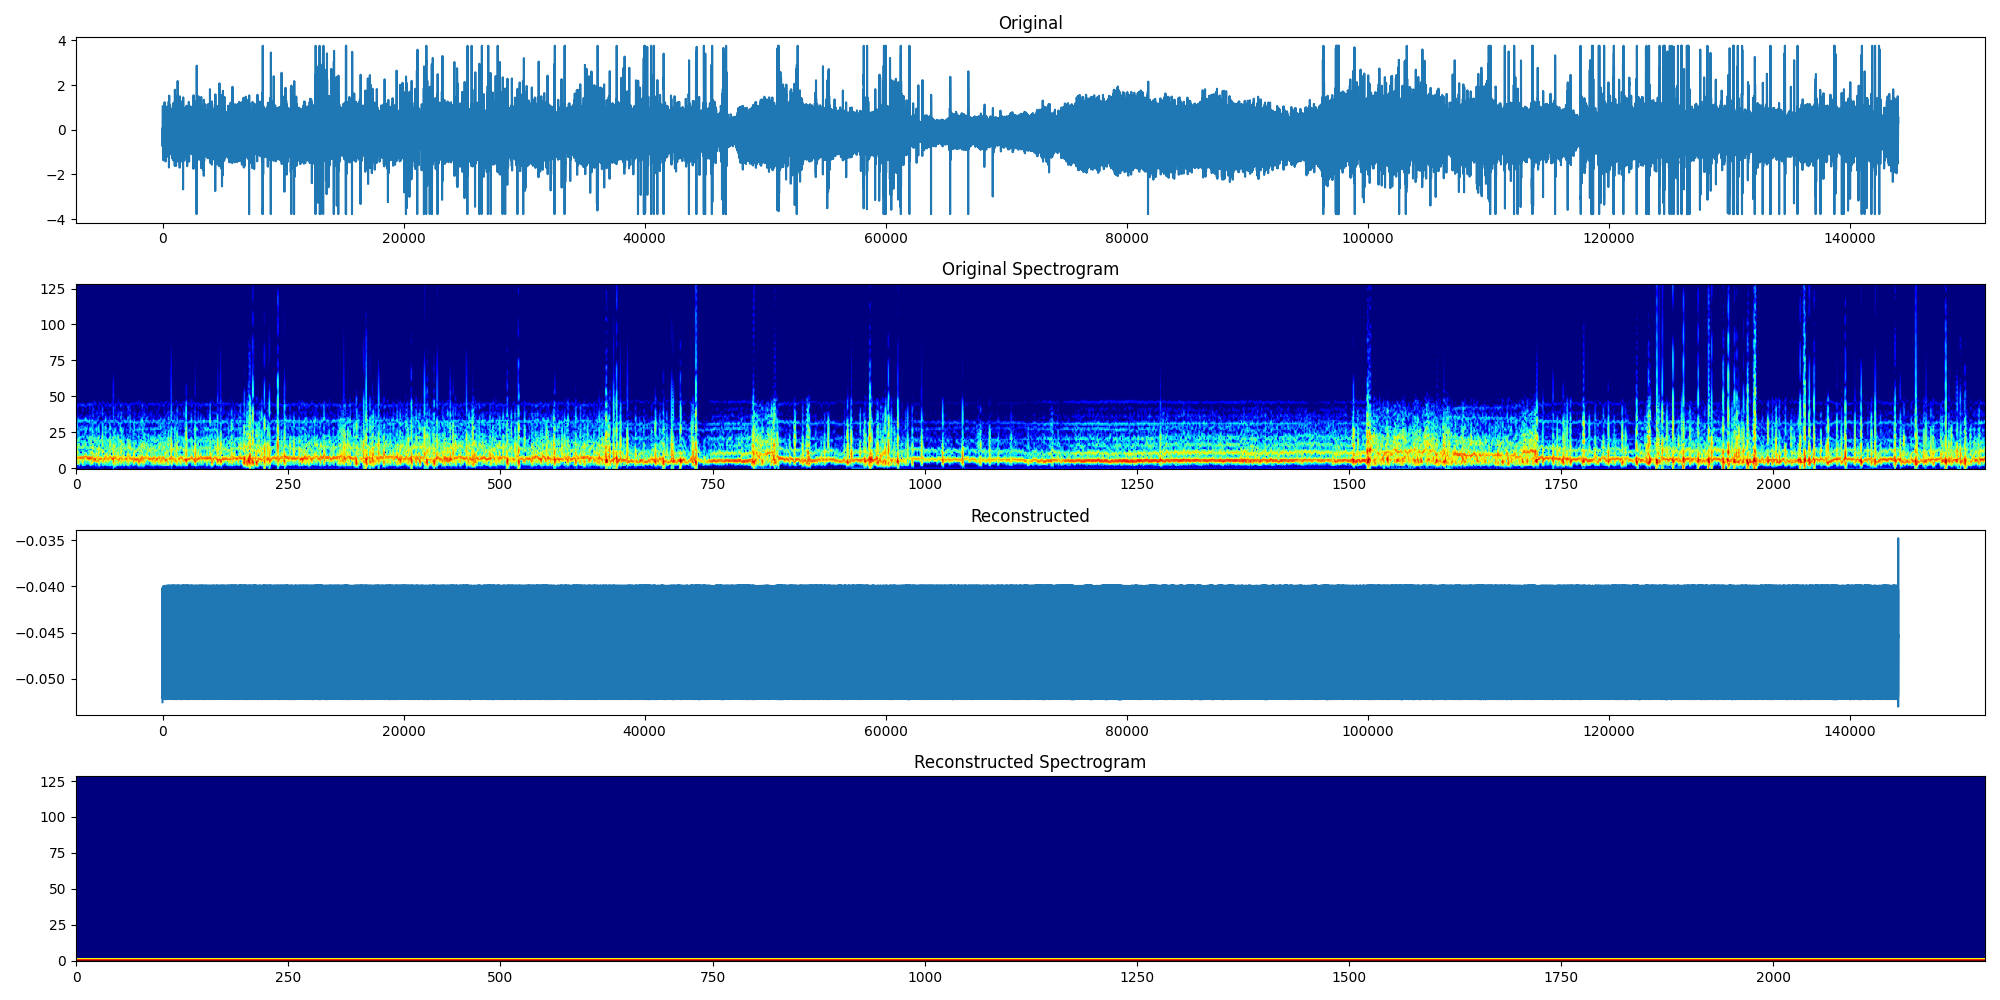
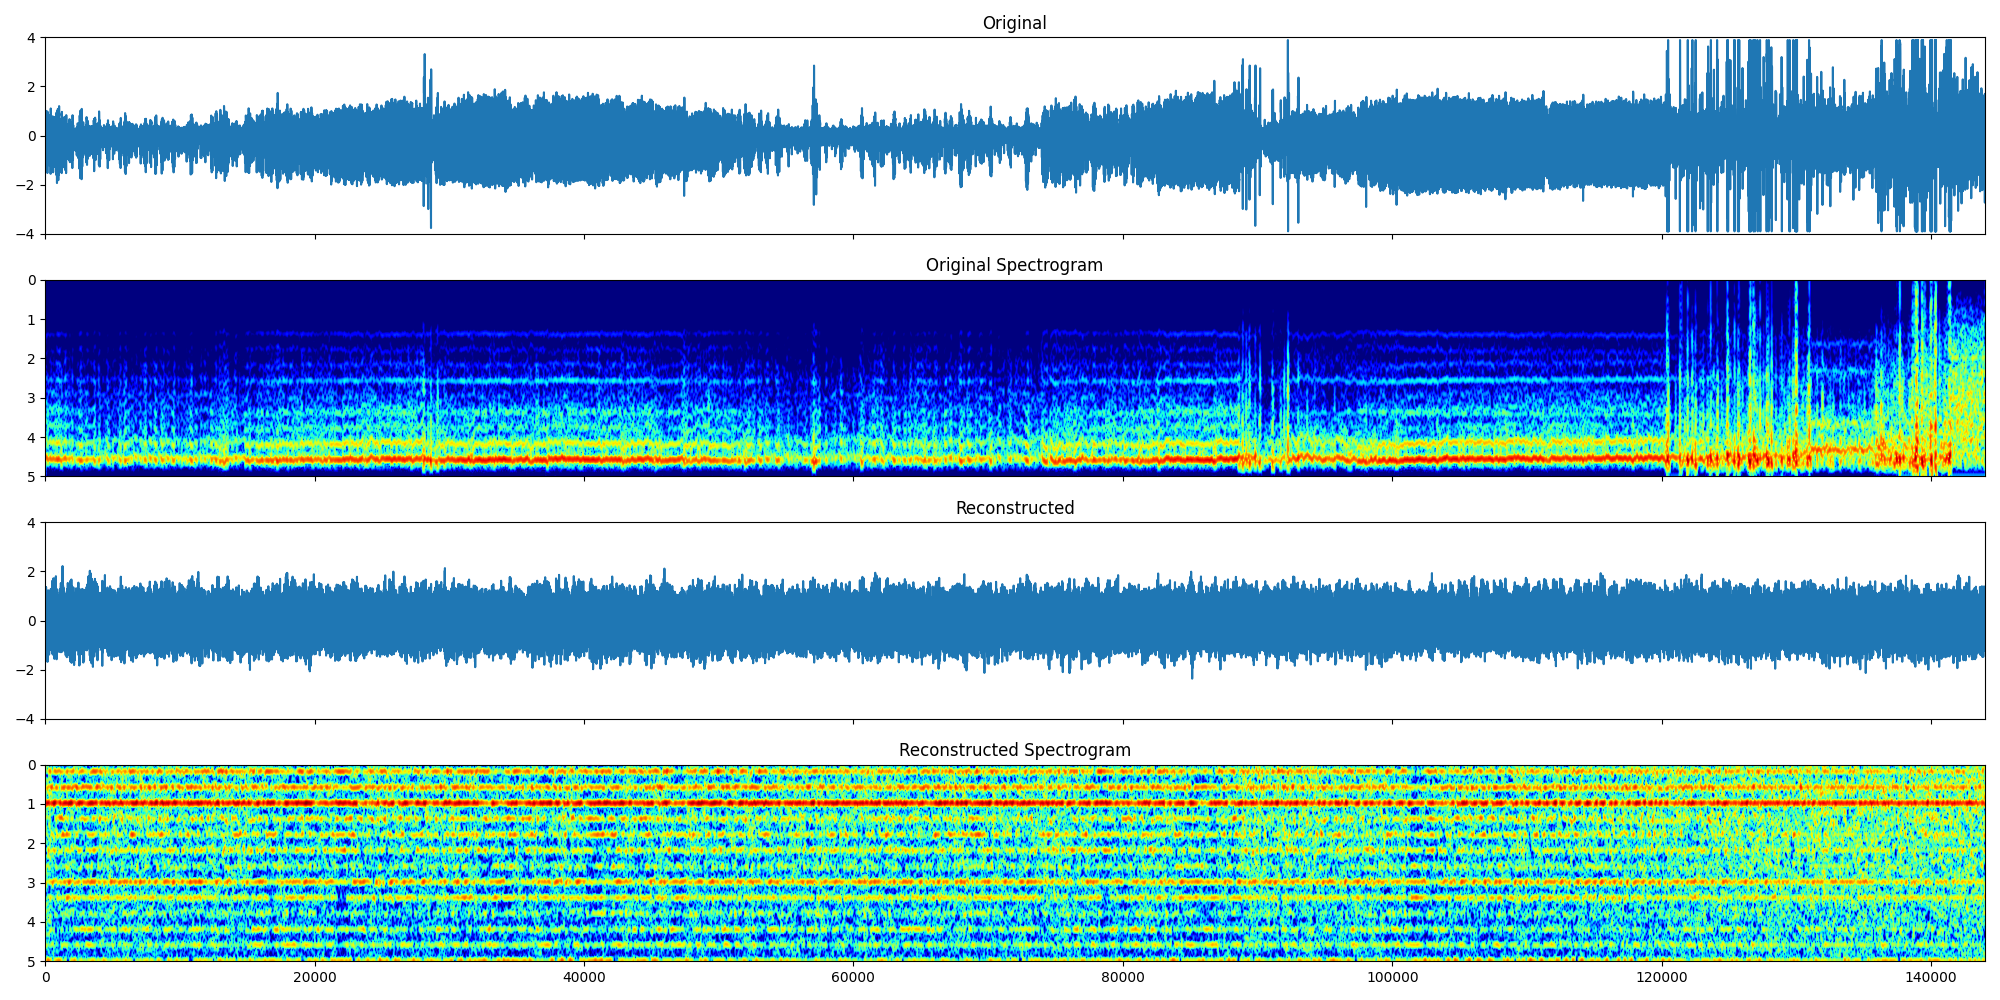
automatically switch between users; fix plot alignment issues

diff --git a/encodec/train.py b/encodec/train.py
@@ -25,7 +25,9 @@ import matplotlib.pyplot as plt
 import numpy as np
 
 import sys
-from my_code.spectrogram_loss import BreathingSpectrogram, ReconstructionLoss, ReconstructionLosses
+from my_code.spectrogram_loss import ReconstructionLoss, ReconstructionLosses
+
+import socket
 
 def train_one_step(epoch, optimizer, optimizer_disc, scheduler, disc_scheduler, model, disc, train_loader, config, writer, freq_loss):
     """train one step function
@@ -234,27 +236,39 @@ def test(epoch, model, disc, val_loader, config, writer, freq_loss):
             S_x = S_x[:, :num_freq//2, :]
             S_x_hat = S_x_hat[:, :num_freq//2, :]
 
-            # plot x and the reconstructed x
-            fig, axs = plt.subplots(4, 1, figsize=(20, 10))
+            time_start = 0
+            time_end = x.shape[-1]
+            num_time_bins = S_x.shape[-1]
 
-            axs[0].plot(x[0].cpu().numpy().squeeze())
+            x_time = np.arange(time_start, time_end, 1)
+
+            # plot x and the reconstructed x
+            fig, axs = plt.subplots(4, 1, figsize=(20, 10), sharex=True)
+
+            axs[0].plot(x_time, x[0].cpu().numpy().squeeze())
             axs[0].set_title('Original')
             axs[0].set_ylim(-4, 4)
-            axs[1].imshow(S_x.detach().cpu().numpy()[0], cmap='jet', aspect='auto')
+            axs[1].imshow(S_x.detach().cpu().numpy()[0], cmap='jet', aspect='auto', extent=[time_start, time_end, 0, 5])
             axs[1].invert_yaxis()
             axs[1].set_title('Original Spectrogram')
 
-            axs[2].plot(x_hat[0].cpu().numpy().squeeze())
+            axs[2].plot(x_time, x_hat[0].cpu().numpy().squeeze())
             axs[2].set_title('Reconstructed')
             axs[2].set_ylim(-4, 4)
-            axs[3].imshow(S_x_hat.detach().cpu().numpy()[0], cmap='jet', aspect='auto')
+            axs[3].imshow(S_x_hat.detach().cpu().numpy()[0], cmap='jet', aspect='auto', extent=[time_start, time_end, 0, 5])
             axs[3].invert_yaxis()
             axs[3].set_title('Reconstructed Spectrogram')
 
             fig.tight_layout()
-            # fig.savefig(f'/data/netmit/wifall/breathing_tokenizer/encodec/encodec/tensorboard/{config.exp_details.name}/reconstructed_{epoch}.png')
-            fig.savefig(f'/data/scratch/ellen660/encodec/encodec/tensorboard/{config.exp_details.name}/{epoch}.png')
+            if user_name == 'ellen660':
+                fig.savefig(f'/data/scratch/ellen660/encodec/encodec/tensorboard/{config.exp_details.name}/{epoch}.png')
+            elif user_name == 'chaoli':
+                fig.savefig(f'/data/netmit/wifall/breathing_tokenizer/encodec/encodec/tensorboard/{config.exp_details.name}/reconstructed_{epoch}.png')
+            else:
+                raise Exception("User not recognized")
             plt.close(fig)
+
+            sys.exit()
 
     all_codes = torch.cat(all_codes, dim=0) # B, num_codebooks, T
     all_codes = torch.permute(all_codes, (1, 0, 2))
@@ -405,8 +419,14 @@ if __name__ == "__main__":
     curr_time = datetime.now().strftime("%Y%m%d")
     curr_min = datetime.now().strftime("%H%M%S")
 
-    # log_dir = os.path.join(f'/data/netmit/wifall/breathing_tokenizer/encodec/encodec/tensorboard', args.exp_name)
-    log_dir = f'/data/scratch/ellen660/encodec/encodec/tensorboard/{args.exp_name}/{curr_time}/{curr_min}'
+    user_name = os.getlogin()
+
+    if user_name == 'ellen660':
+        log_dir = f'/data/scratch/ellen660/encodec/encodec/tensorboard/{args.exp_name}/{curr_time}/{curr_min}'
+    elif user_name == 'chaoli':
+        log_dir = os.path.join(f'/data/netmit/wifall/breathing_tokenizer/encodec/encodec/tensorboard', args.exp_name)
+    else:
+        raise Exception("User not recognized")
     if not os.path.exists(log_dir):
         os.makedirs(log_dir)
         
